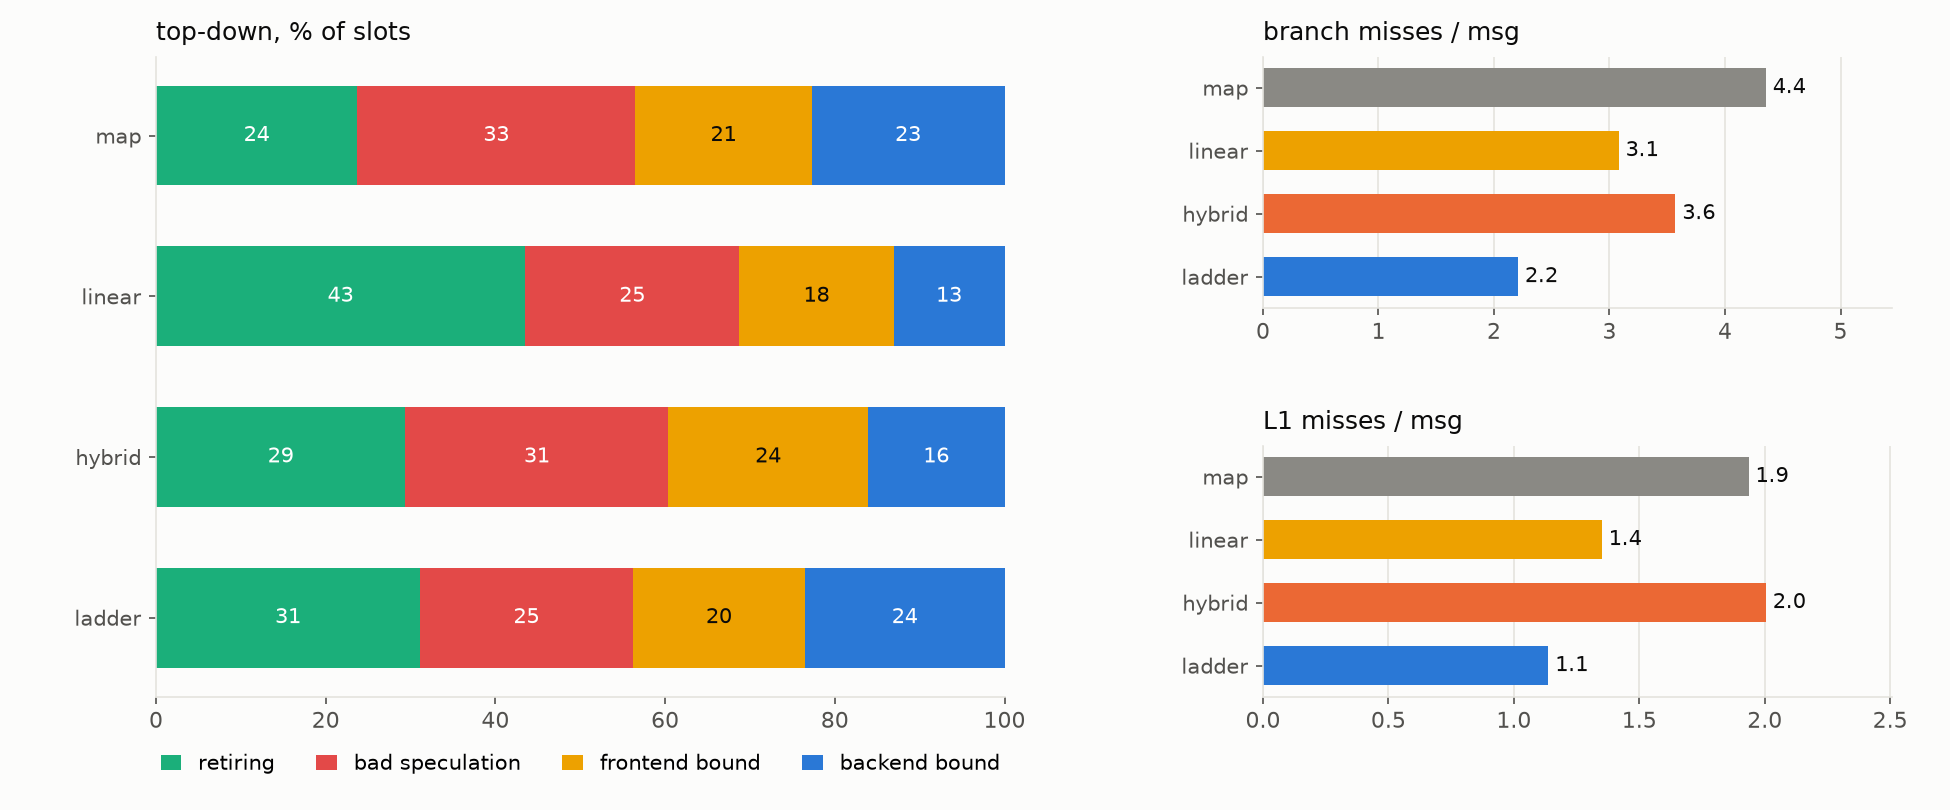
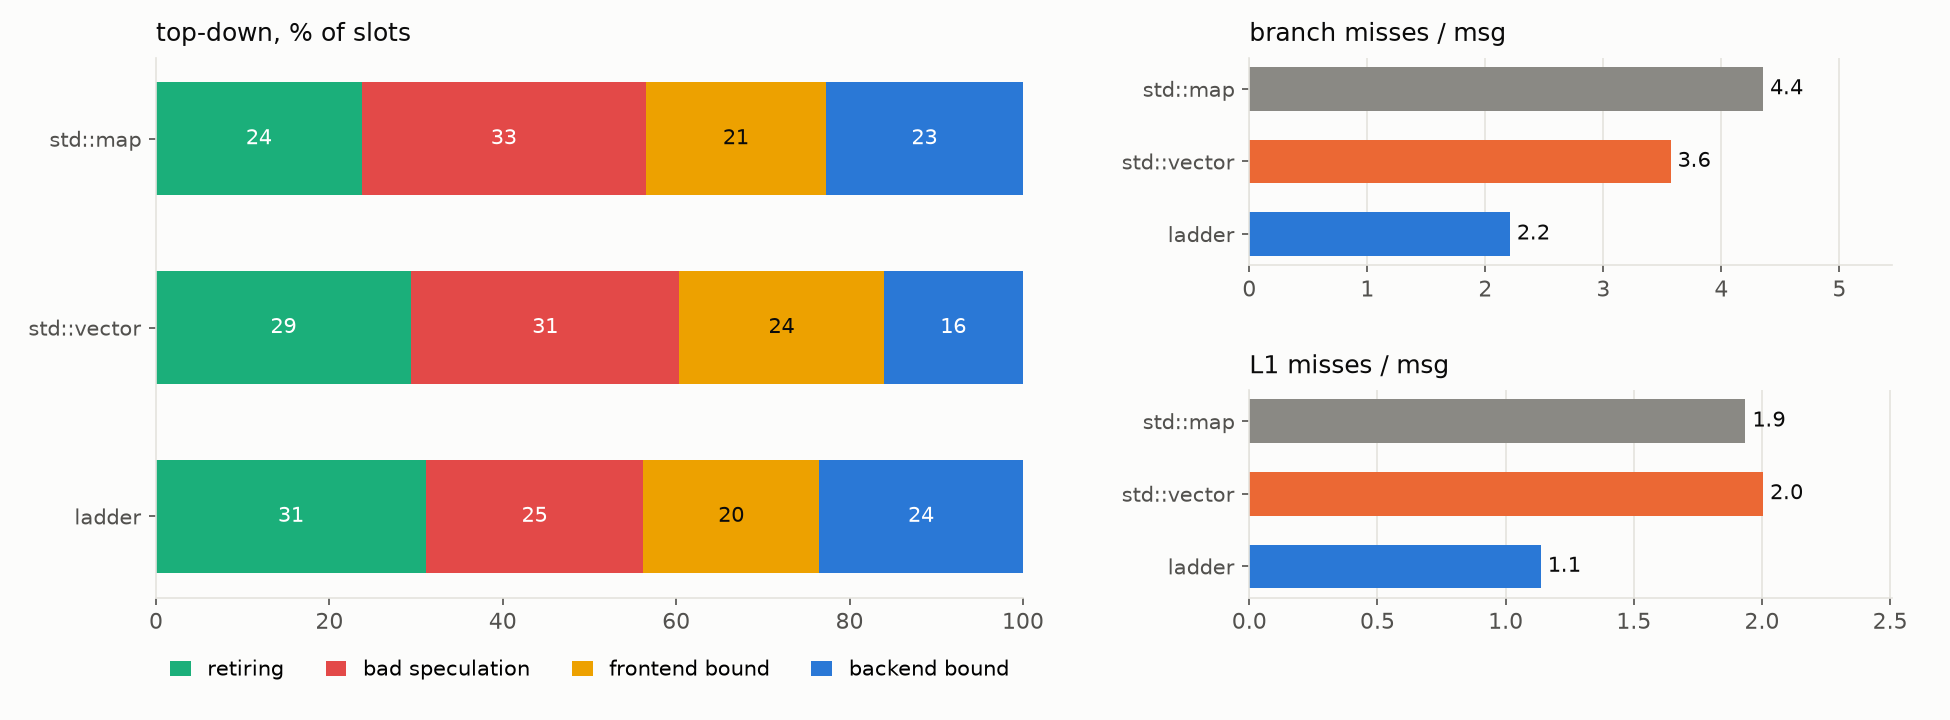
cleanup

diff --git a/Core/Source/Handoff/Ring/CircularBuffer.h b/Core/Source/Handoff/Ring/CircularBuffer.h
@@ -31,6 +31,7 @@ public:
             }
         }
         slots_[tail & kMask] = std::move(value);
+        tail_.store(tail + 1, std::memory_order_release);
         return true;
     }
 
